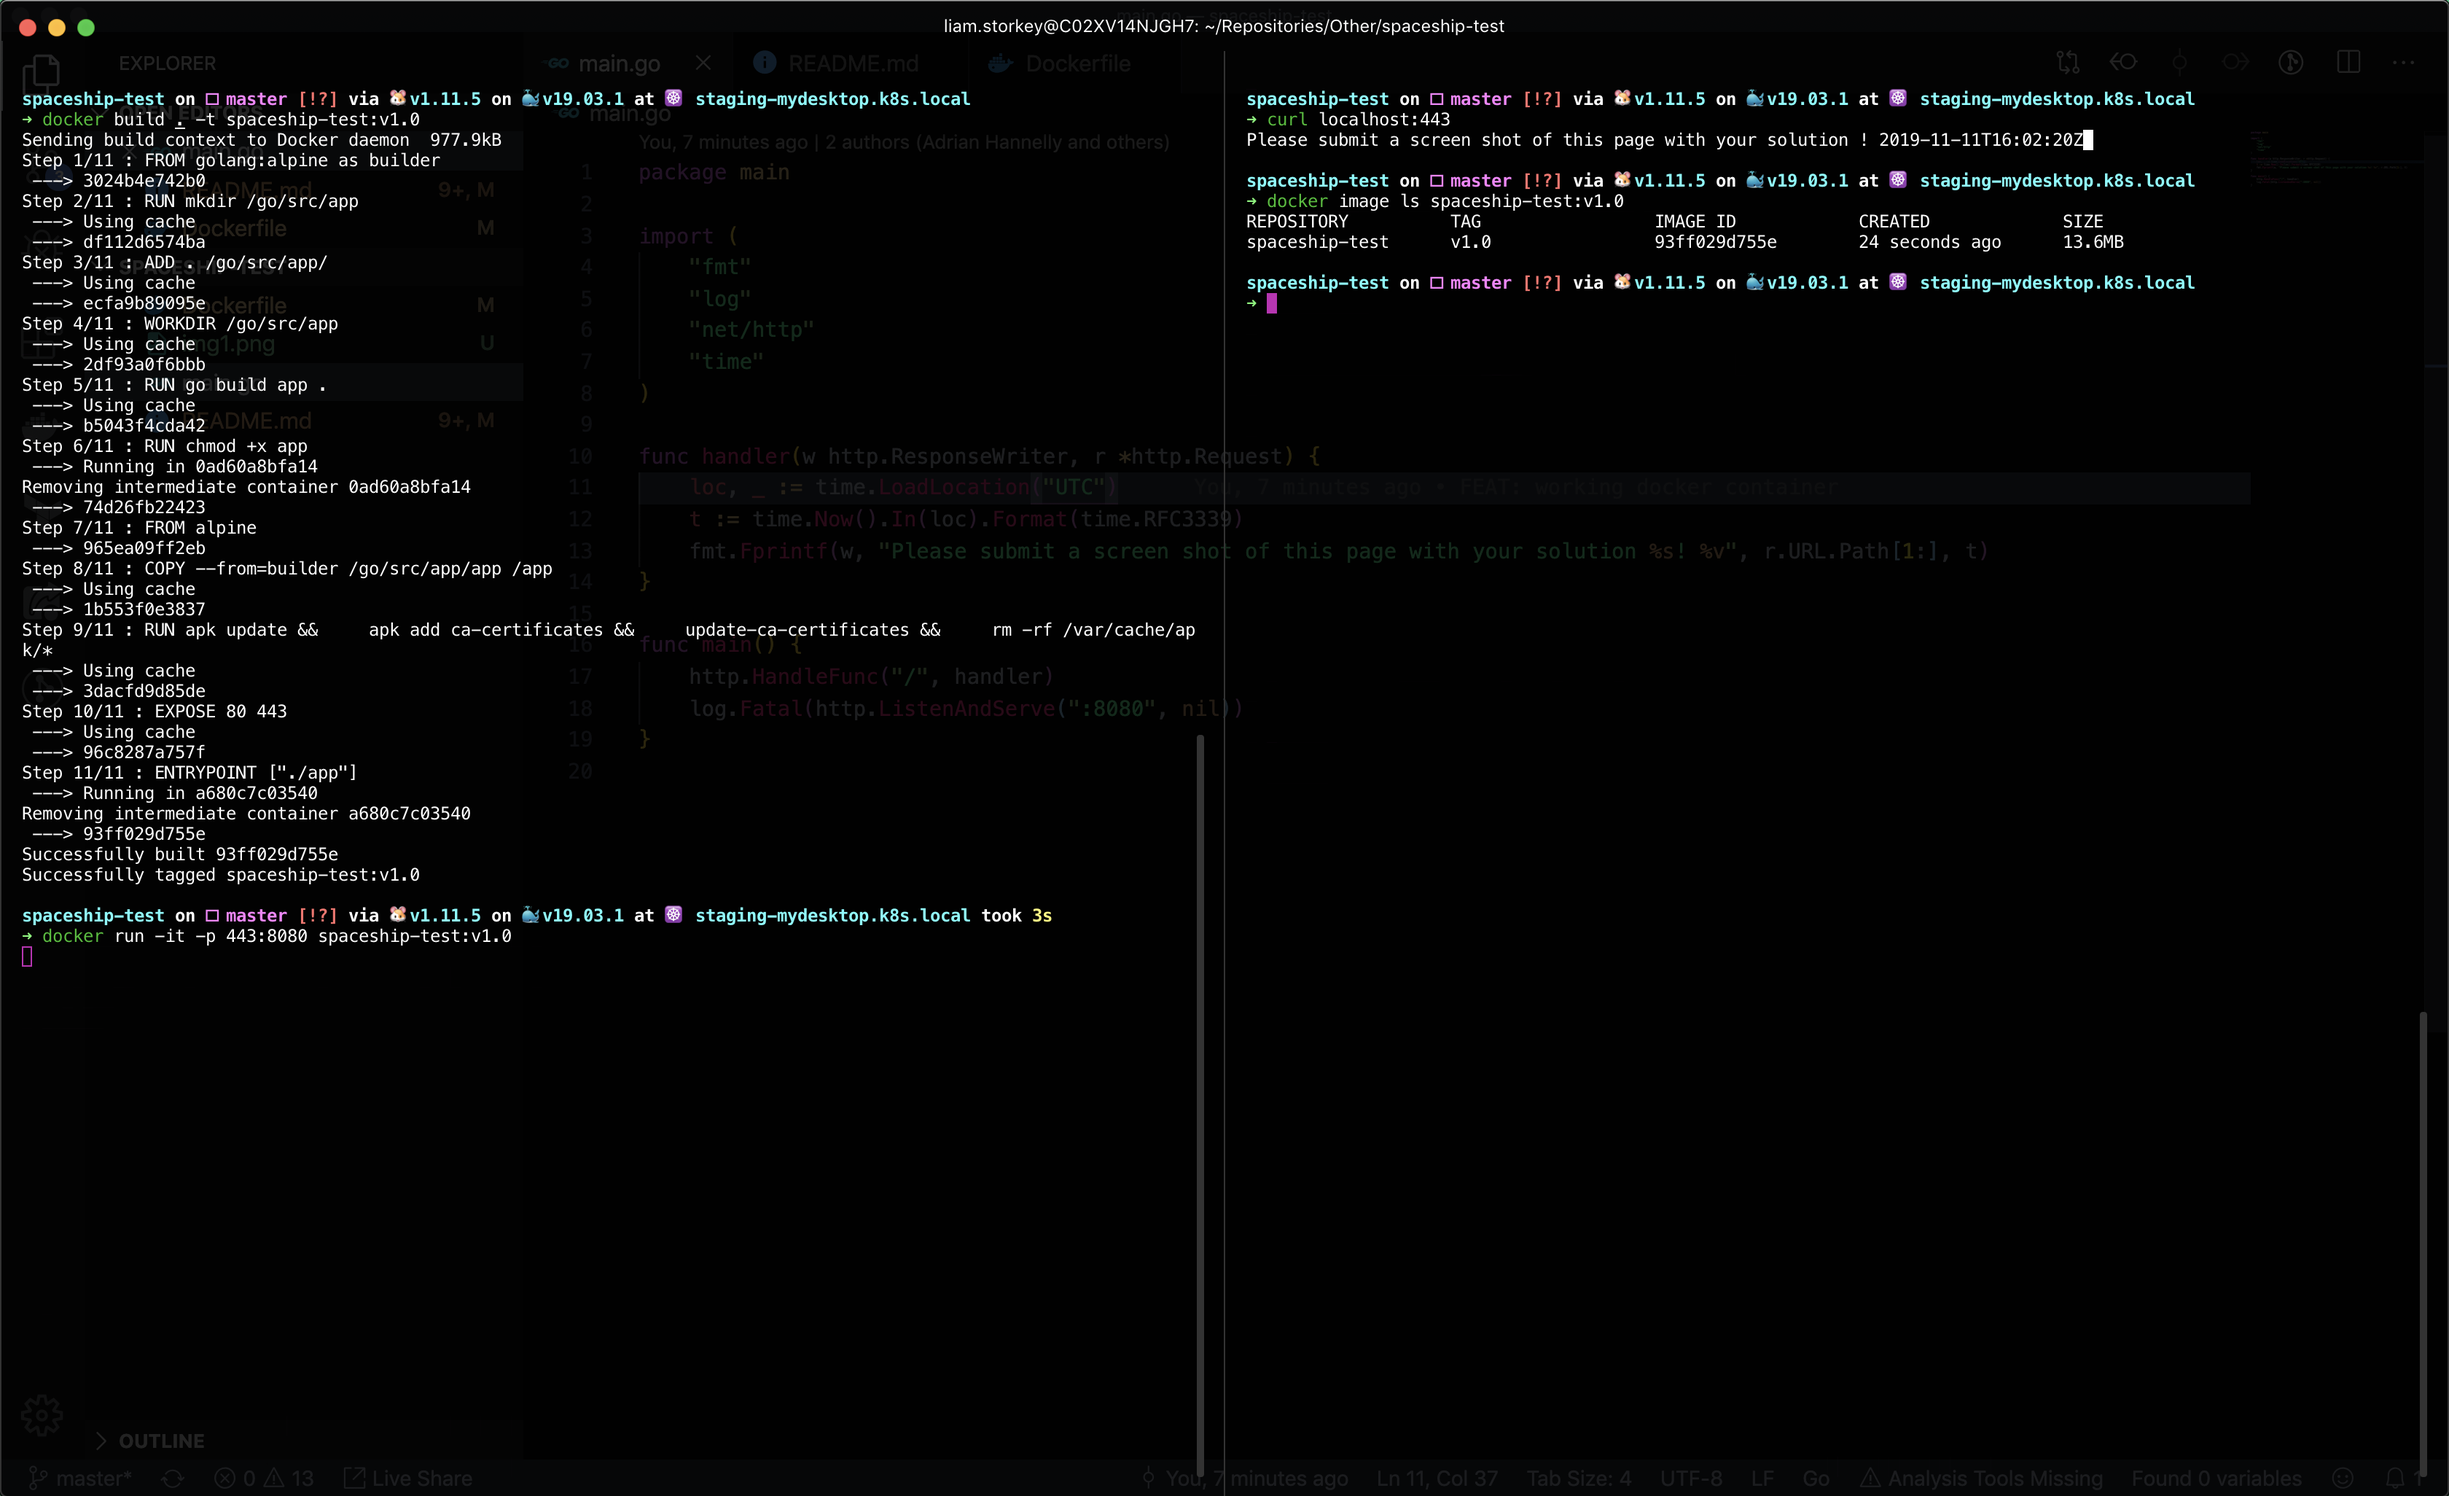
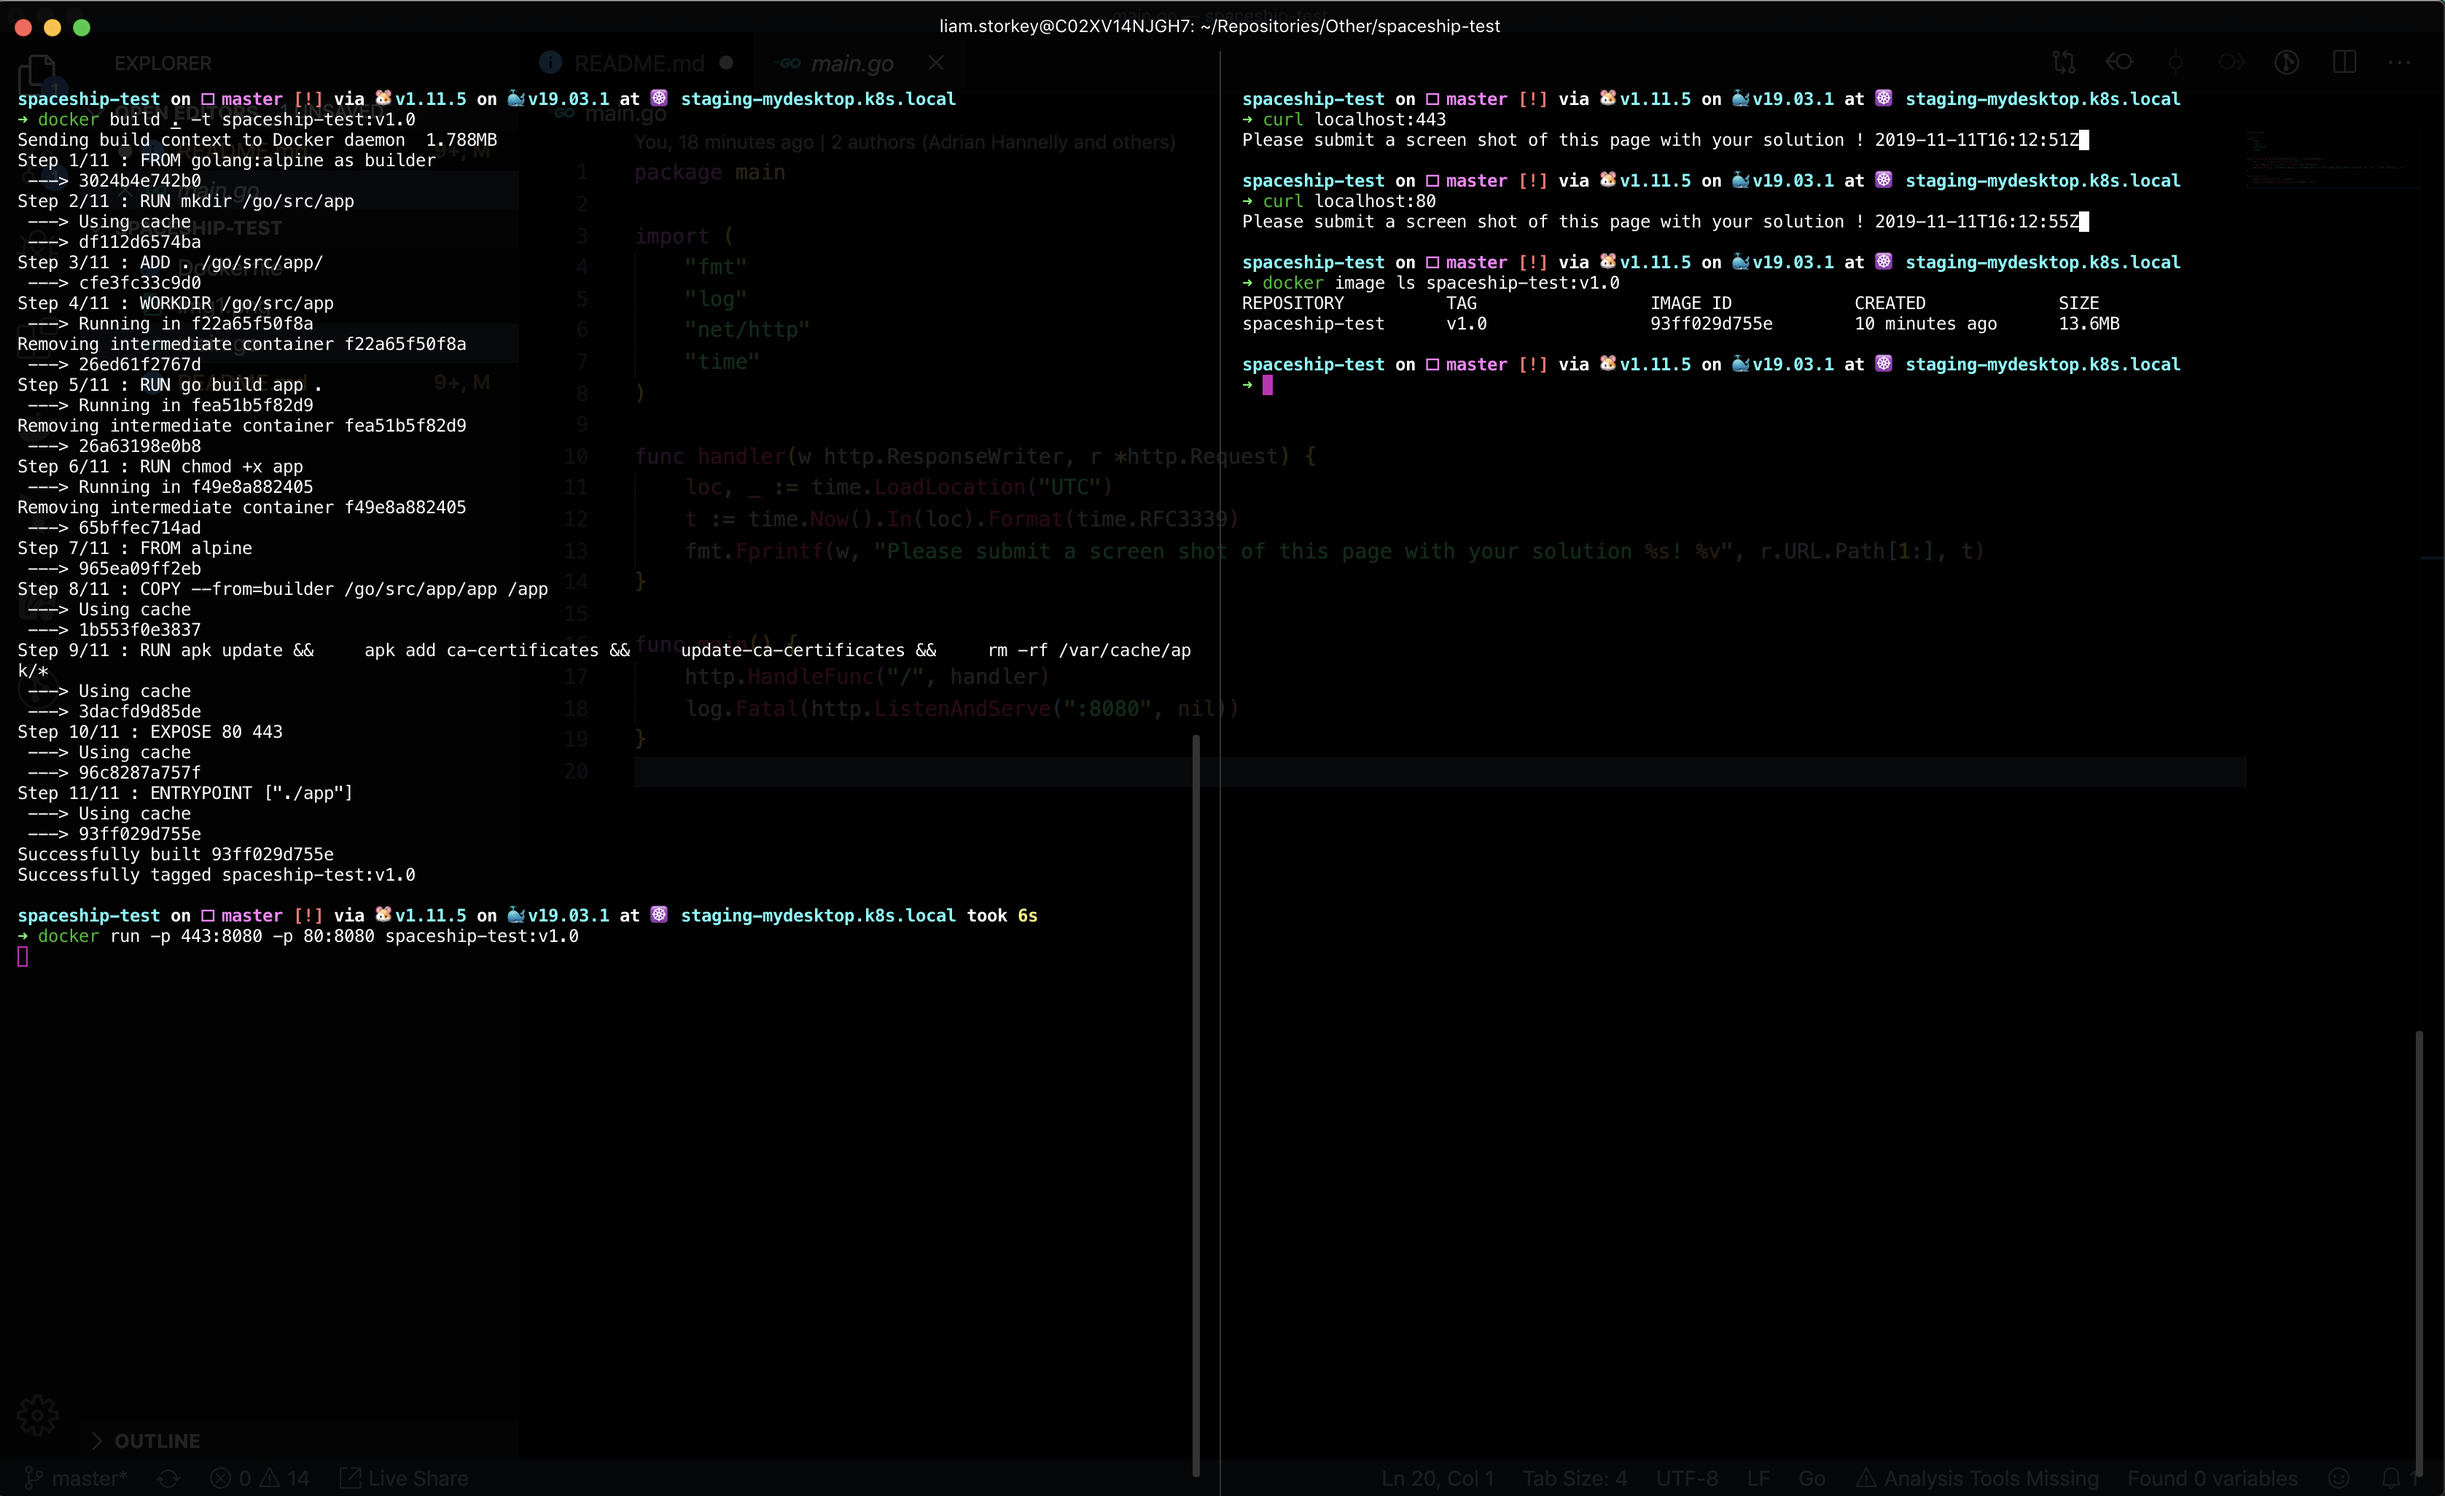
DOC: updated image

diff --git a/README.md b/README.md
@@ -22,6 +22,6 @@ It should take no more that 30 minutes to fix.
 ## How To
 1. `docker build . -t spaceship-test:v1.0`
 
-2. `docker run -it -p 443:8080 spaceship-test:v1.0`
+2. `docker run -p 443:8080 -p 80:8080 spaceship-test:v1.0`
 
 3. `curl localhost:443`
